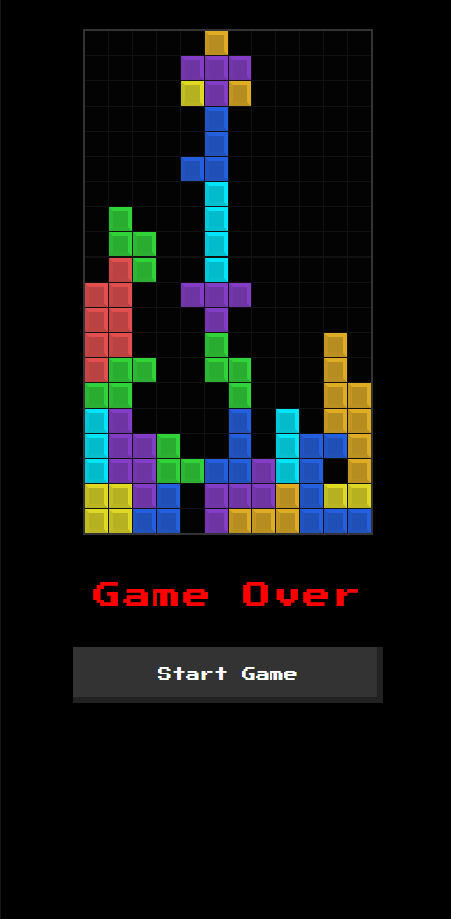
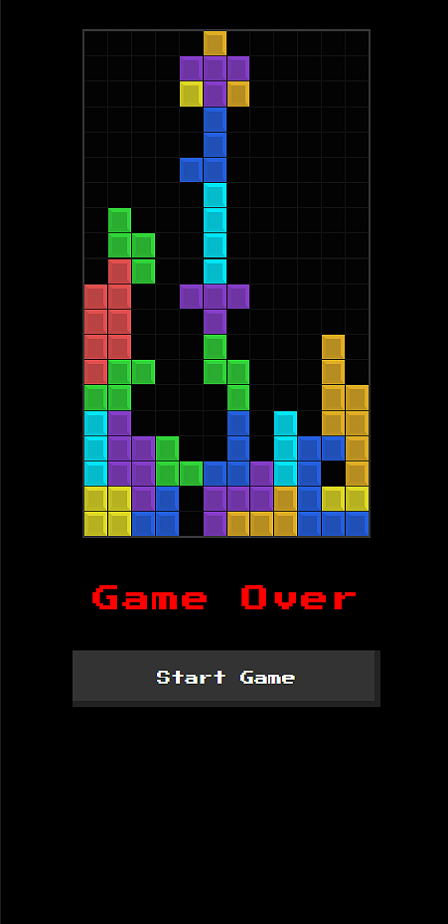
Readme and images resizing

diff --git a/README.md b/README.md
@@ -37,3 +37,13 @@ A web application made as part of the project from WWW and script languages
 
 <a name="instr"></a>
 ## 5. How to run it?
++ 0. Clone the GitHub repository
++ [ Repository Clone Link ](https://github.com/Smendowski/react-tetris.git)
++ 1. Install the lates verion of NodeJS on your computer <br/>
++ [ NodeJS ](https://nodejs.org/en/download/)
++ NodeJS gives a 'npm' tool - Node Package Manager
++ 2. Navigate inside 'react-tetris' directory and run there a PowerShell.
++ 3. Install npm and all dependencies:
++ `npm install` to install node-modules, it might take some time.
++ `npm install --save styled-components`
++ 4. Run React-Application by 'npm run'
